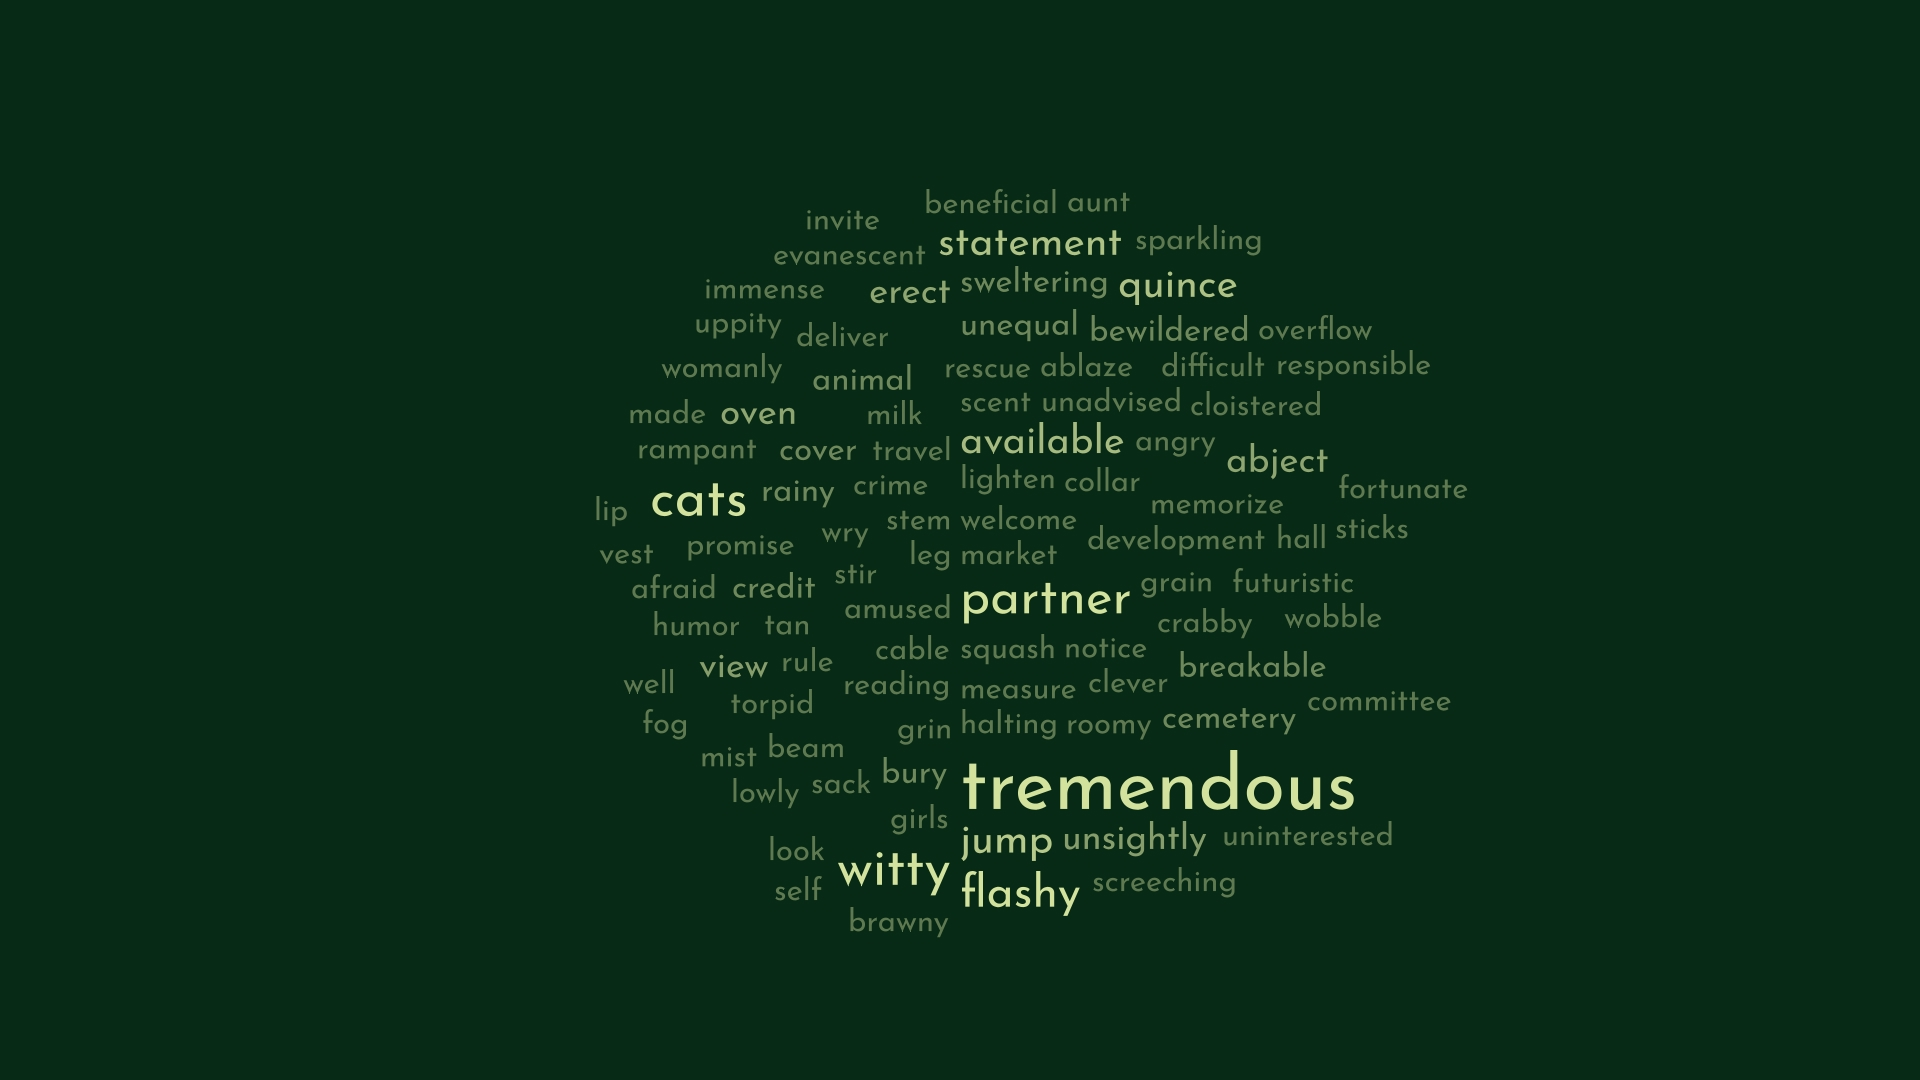
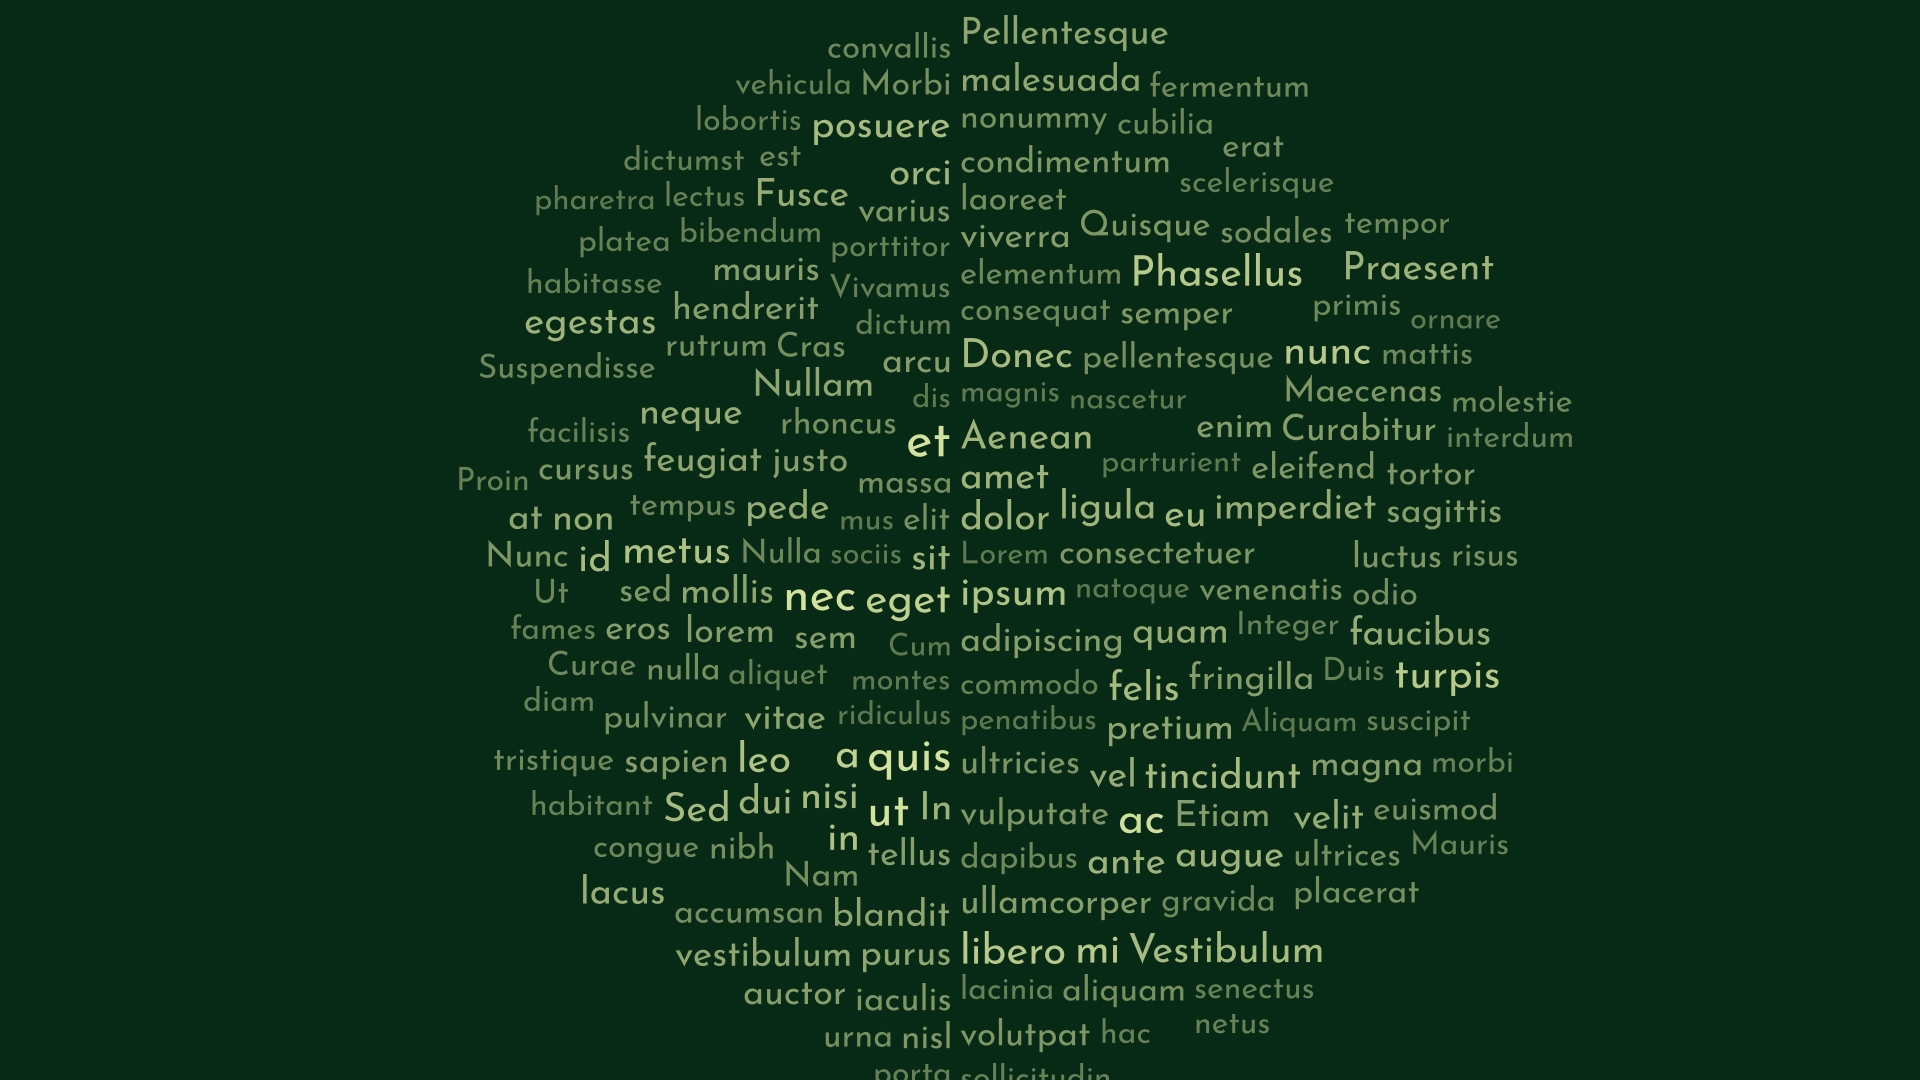
Fix pr comments

Changed region(s): [[0.2188, 0.0, 0.8125, 1.0]]

diff --git a/cs/TagsCloudVisualizationTests/CircularCloudLayouterTests.cs b/cs/TagsCloudVisualizationTests/CircularCloudLayouterTests.cs
@@ -24,13 +24,15 @@ public class CircularCloudLayouterTests
     {
         if (TestContext.CurrentContext.Result.Outcome.Status == TestStatus.Failed)
         {
-            using var tagCloudVisualizer =
-                new TagCloudVisualizer(circularCloudLayouter,
-                    new ImageGenerator(FileHandler.GetRelativeFilePath($"out/{FailOutputName}.jpg"), 30, 1920, 1080),
-                    new WordsDataSet("words"));
-            tagCloudVisualizer.GenerateTagCloud();
+            new TagCloudVisualizer(circularCloudLayouter,
+                    new ImageGenerator(
+                        FileHandler.GetOutputRelativeFilePath($"{FailOutputName}.jpg"),
+                        FileHandler.GetSourceRelativeFilePath("JosefinSans-Regular.ttf"),
+                        30, 1920, 1080),
+                    new MockWordsDataSet())
+                .ShowTagCloudLayout();
             Console.WriteLine("Tag cloud visualization saved to file " +
-                              FileHandler.GetRelativeFilePath($"out/{FailOutputName}.jpg"));
+                              FileHandler.GetOutputRelativeFilePath($"{FailOutputName}.jpg"));
         }
     }
 
@@ -46,8 +48,8 @@ public class CircularCloudLayouterTests
     [Test]
     public void AlgorithmTimeComplexity_LessOrEqualQuadratic()
     {
-        var words100Time = AlgorithmTimeComplexity("words100", "words100");
-        var words1000Time = AlgorithmTimeComplexity("words1000", "words1000");
+        var words100Time = AlgorithmTimeComplexity("words100", "testFile");
+        var words1000Time = AlgorithmTimeComplexity("words1000", "testFile");
 
         (words1000Time.Nanoseconds / words100Time.Nanoseconds).Should().BeLessOrEqualTo(100);
     }
@@ -58,10 +60,13 @@ public class CircularCloudLayouterTests
 
         sw.Start();
 
-        using var tagCloudVisualizer =
+        var tagCloudVisualizer =
             new TagCloudVisualizer(new CircularCloudLayouter(new Point(0, 0)),
-                new ImageGenerator(FileHandler.GetRelativeFilePath($"out/{timeOutputName}.jpg"), 30, 1920, 1080),
-                new WordsDataSet(wordsFileName));
+                new ImageGenerator(
+                    FileHandler.GetOutputRelativeFilePath($"{timeOutputName}.jpg"),
+                    FileHandler.GetSourceRelativeFilePath("JosefinSans-Regular.ttf"),
+                    30, 1920, 1080),
+                new WordsDataSet(FileHandler.ReadText(wordsFileName)));
         tagCloudVisualizer.GenerateTagCloud();
 
         sw.Stop();
@@ -72,17 +77,64 @@ public class CircularCloudLayouterTests
     [Test]
     public void Rectangles_NotIntersects()
     {
-        var wordsDataSet = new WordsDataSet("words");
+        circularCloudLayouter.PlacedRectangles
+            .All(rect1 => circularCloudLayouter.PlacedRectangles
+                .All(rect2 => !rect1.IntersectsWith(rect2))).Should().BeFalse();
+    }
 
-        var allRectanglesArea = 0;
-        foreach (var kvp in wordsDataSet.CreateFrequencyDict())
-        {
-            var rectangle = circularCloudLayouter.PutNextRectangle(new Size(45, 15));
-            allRectanglesArea += rectangle.Height * rectangle.Width;
-        }
-        
+    [Test]
+    public void TagCloudIsDensityAndShapeCloseToCircleWithCenter()
+    {
+        new TagCloudVisualizer(circularCloudLayouter,
+            new ImageGenerator(
+                FileHandler.GetOutputRelativeFilePath("testFile.jpg"),
+                FileHandler.GetSourceRelativeFilePath("JosefinSans-Regular.ttf"),
+                30, 1920, 1080),
+            new WordsDataSet(FileHandler.ReadText("words"))).GenerateTagCloud();
+
+        const double densityRatio = 0.6;
+
         var cloudArea = circularCloudLayouter.PlacedRectangles.Sum(rectangle => rectangle.Height * rectangle.Width);
-        
-        allRectanglesArea.Should().Be(cloudArea);
+
+        var maxRadius = circularCloudLayouter.PlacedRectangles.Max(
+            rectangle => Math.Max(
+                Math.Max(
+                    PointMath.DistanceToCenter(
+                        rectangle.Location,
+                        center),
+                    PointMath.DistanceToCenter(
+                        new Point(
+                            rectangle.Location.X + rectangle.Width,
+                            rectangle.Location.Y),
+                        center)),
+                Math.Max(
+                    PointMath.DistanceToCenter(
+                        new Point(
+                            rectangle.Location.X,
+                            rectangle.Location.Y + rectangle.Width),
+                        center),
+                    PointMath.DistanceToCenter(
+                        new Point(
+                            rectangle.Location.X + rectangle.Width,
+                            rectangle.Location.Y + rectangle.Width),
+                        center))
+            )
+        );
+        var outlineCircleArea = Math.PI * maxRadius * maxRadius;
+
+        (outlineCircleArea / cloudArea).Should().BeGreaterThan(densityRatio);
+    }
+
+    private class MockWordsDataSet() : WordsDataSet("")
+    {
+        public override Dictionary<string, int> CreateFrequencyDict()
+        {
+            var dict = new Dictionary<string, int>();
+
+            for (var i = 0; i < 100; i++)
+                dict.Add(i.ToString(), 0);
+
+            return dict;
+        }
     }
 }

diff --git a/cs/TagsCloudVisualization/CircularCloudLayouter.cs b/cs/TagsCloudVisualization/CircularCloudLayouter.cs
@@ -2,27 +2,27 @@ using System.Drawing;
 
 namespace TagsCloudVisualization;
 
-public class CircularCloudLayouter
+public class CircularCloudLayouter(Point center)
 {
-    public List<Rectangle> PlacedRectangles { get; } = new();
-    private readonly Point center;
+    private readonly List<Rectangle> placedRectangles = new();
+    public List<Rectangle> PlacedRectangles => new(placedRectangles);
     private int radius;
-
-    public CircularCloudLayouter(Point center)
-    {
-        this.center = center;
-    }
+    private int minDimension = int.MaxValue;
 
     public Rectangle PutNextRectangle(Size rectangleSize)
     {
+        minDimension = Math.Min(minDimension, Math.Min(rectangleSize.Height, rectangleSize.Width));
+
         foreach (var coordinate in GetPoints())
         {
             var target = new Rectangle(coordinate, rectangleSize);
 
             if (!IntersectWithPlaced(target))
             {
-                PlacedRectangles.Add(target);
+                CompactRectangle(ref target);
 
+                placedRectangles.Add(target);
+                
                 return target;
             }
         }
@@ -30,21 +30,37 @@ public class CircularCloudLayouter
         return default;
     }
 
+    private void CompactRectangle(ref Rectangle target)
+    {
+        while (center.Y != target.Y && !IntersectWithPlaced(target))
+        {
+            target.Y += Math.Sign(center.Y - target.Y);
+        }
+        if (center.Y != target.Y)
+            target.Y -= Math.Sign(center.Y - target.Y);
+        
+        while (center.X != target.X && !IntersectWithPlaced(target))
+        {
+            target.X += Math.Sign(center.X - target.X);
+        }
+        if (center.X != target.X)
+            target.X -= Math.Sign(center.X - target.X);
+    }
+
     private IEnumerable<Point> GetPoints()
     {
         var rnd = new Random();
         while (true)
         {
-            // Угол рандомизирую для менее детерминированного распределения, i - счётчик для поворота только на 360
             var angle = rnd.Next(360);
             for (var i = 0; i < 360; angle++, i++)
                 yield return PointMath.PolarToCartesian(radius, angle, center);
-            radius++;
+            radius += minDimension;
         }
     }
 
     private bool IntersectWithPlaced(Rectangle target)
     {
-        return PlacedRectangles.Any(target.IntersectsWith);
+        return placedRectangles.Any(target.IntersectsWith);
     }
 }

diff --git a/cs/TagsCloudVisualization/ImageGenerator.cs b/cs/TagsCloudVisualization/ImageGenerator.cs
@@ -13,14 +13,13 @@ namespace TagsCloudVisualization;
 
 public class ImageGenerator : IDisposable
 {
-    private const string FontPath = "JosefinSans-Regular";
     private readonly Image<Rgba32> image;
     private readonly string outputPath;
     private readonly int fontSize;
     private readonly FontFamily family;
     private readonly ImageEncoder encoder;
 
-    public ImageGenerator(string outputPath, int fontSize, int width, int height, int quality = 100)
+    public ImageGenerator(string outputPath, string fontPath, int fontSize, int width, int height, int quality = 100)
     {
         image = new Image<Rgba32>(width, height);
 
@@ -30,7 +29,7 @@ public class ImageGenerator : IDisposable
 
         this.fontSize = fontSize;
 
-        family = new FontCollection().Add(FileHandler.GetRelativeFilePath($"src/{FontPath}.ttf"));
+        family = new FontCollection().Add(fontPath);
 
         SetBackground(Color.FromRgb(7, 42, 22));
     }
@@ -52,6 +51,15 @@ public class ImageGenerator : IDisposable
             Color.FromRgba(211, 226, 157, (byte)Math.Min(255, 100 + frequency * 10)),
             new PointF(rectangle.X, rectangle.Y))
         );
+    }
+    
+    public void DrawLayout(List<Rectangle> rectangles)
+    {
+        foreach (var tmpRect in rectangles)
+        {
+            var rectangle = new RectangleF(tmpRect.X, tmpRect.Y, tmpRect.Width, tmpRect.Height);
+            image.Mutate(x => x.Draw(Color.FromRgb(211, 226, 157), 2f, rectangle));
+        }
     }
 
     public System.Drawing.Size GetOuterRectangle(string word, int frequency)

diff --git a/cs/TagsCloudVisualization/TagCloudVisualizer.cs b/cs/TagsCloudVisualization/TagCloudVisualizer.cs
@@ -1,19 +1,8 @@
 namespace TagsCloudVisualization;
 
-public class TagCloudVisualizer : IDisposable
-{
-    private readonly CircularCloudLayouter circularCloudLayouter;
-    private readonly ImageGenerator imageGenerator;
-    private readonly WordsDataSet wordsDataSet;
-
-    public TagCloudVisualizer(CircularCloudLayouter circularCloudLayouter, 
+public class TagCloudVisualizer(CircularCloudLayouter circularCloudLayouter,
         ImageGenerator imageGenerator, WordsDataSet wordsDataSet)
-    {
-        this.circularCloudLayouter = circularCloudLayouter;
-        this.imageGenerator = imageGenerator;
-        this.wordsDataSet = wordsDataSet;
-    }
-
+{
     public void GenerateTagCloud()
     {
         foreach (var kvp in wordsDataSet.CreateFrequencyDict())
@@ -23,9 +12,14 @@ public class TagCloudVisualizer : IDisposable
         }
         imageGenerator.Save();
     }
-
-    public void Dispose()
+    
+    public void ShowTagCloudLayout()
     {
-        imageGenerator.Dispose();
+        foreach (var kvp in wordsDataSet.CreateFrequencyDict())
+        {
+            circularCloudLayouter.PutNextRectangle(imageGenerator.GetOuterRectangle(kvp.Key, kvp.Value));
+        }
+        imageGenerator.DrawLayout(circularCloudLayouter.PlacedRectangles);
+        imageGenerator.Save();
     }
 }

diff --git a/cs/TagsCloudVisualization/Program.cs b/cs/TagsCloudVisualization/Program.cs
@@ -1,11 +1,13 @@
-// See https://aka.ms/new-console-template for more information
-
-using System.Drawing;
+using System.Drawing;
 using TagsCloudVisualization;
 
-using var tagCloudVisualizer = new TagCloudVisualizer(
+using var imageGenerator = new ImageGenerator(
+    FileHandler.GetOutputRelativeFilePath("words.jpg"),
+    FileHandler.GetSourceRelativeFilePath("JosefinSans-Regular.ttf"),
+    30, 1920, 1080);
+
+new TagCloudVisualizer(
     new CircularCloudLayouter(new Point(960, 540)),
-    new ImageGenerator(FileHandler.GetRelativeFilePath("out/rectangles.jpg"), 30, 1920, 1080),
-    new WordsDataSet("words")
-);
-tagCloudVisualizer.GenerateTagCloud();
+    imageGenerator,
+    new WordsDataSet(FileHandler.ReadText("words"))
+).GenerateTagCloud();

diff --git a/cs/TagsCloudVisualization/FileHandler.cs b/cs/TagsCloudVisualization/FileHandler.cs
@@ -4,11 +4,16 @@ public static class FileHandler
 {
     public static string ReadText(string fileName)
     {
-        return File.ReadAllText(GetRelativeFilePath(fileName));
+        return File.ReadAllText(GetSourceRelativeFilePath($"{fileName}.txt"));
     }
-
-    public static string GetRelativeFilePath(string fileName)
+    
+    public static string GetOutputRelativeFilePath(string fileName)
     {
-        return $"../../../../TagsCloudVisualization/{fileName}";
+        return $"../../../../TagsCloudVisualization/out/{fileName}";
+    }
+    
+    public static string GetSourceRelativeFilePath(string fileName)
+    {
+        return $"../../../../TagsCloudVisualization/src/{fileName}";
     }
 }

diff --git a/cs/TagsCloudVisualization/WordsDataSet.cs b/cs/TagsCloudVisualization/WordsDataSet.cs
@@ -2,19 +2,12 @@ using System.Text.RegularExpressions;
 
 namespace TagsCloudVisualization;
 
-public class WordsDataSet
+public class WordsDataSet(string text)
 {
-    private readonly string wordsFileName;
-
-    public WordsDataSet(string wordsFileName)
-    {
-        this.wordsFileName = wordsFileName;
-    }
-
-    public Dictionary<string, int> CreateFrequencyDict()
+    public virtual Dictionary<string, int> CreateFrequencyDict()
     {
         var words = Regex
-            .Matches(FileHandler.ReadText($"src/{wordsFileName}.txt"), @"[\w\d]+")
+            .Matches(text, @"[\w\d]+")
             .Select(m => m.Value)
             .ToArray();
 

diff --git a/cs/TagsCloudVisualizationTests/WordsDataSetTests.cs b/cs/TagsCloudVisualizationTests/WordsDataSetTests.cs
@@ -9,8 +9,8 @@ public class WordsDataSetTests
     [Test]
     public void FreqDictIs_Three3Two2One1()
     {
-        // Test-data:
-        // One, Two, Three, Two, Three, Three
+        const string testString = "One, Two, Three, Two, Three, Three";
+
         var expected = new Dictionary<string, int>
         {
             { "Three", 3 },
@@ -18,7 +18,7 @@ public class WordsDataSetTests
             { "One", 1 }
         };
 
-        var actual = new WordsDataSet("testNumberWords").CreateFrequencyDict();
+        var actual = new WordsDataSet(testString).CreateFrequencyDict();
         
         actual.Should().Equal(expected);
     }

diff --git a/cs/TagsCloudVisualization/README.md b/cs/TagsCloudVisualization/README.md
@@ -1,0 +1,2 @@
+![img.png](out/words.jpg)
+![img.png](out/rectangles.jpg)
